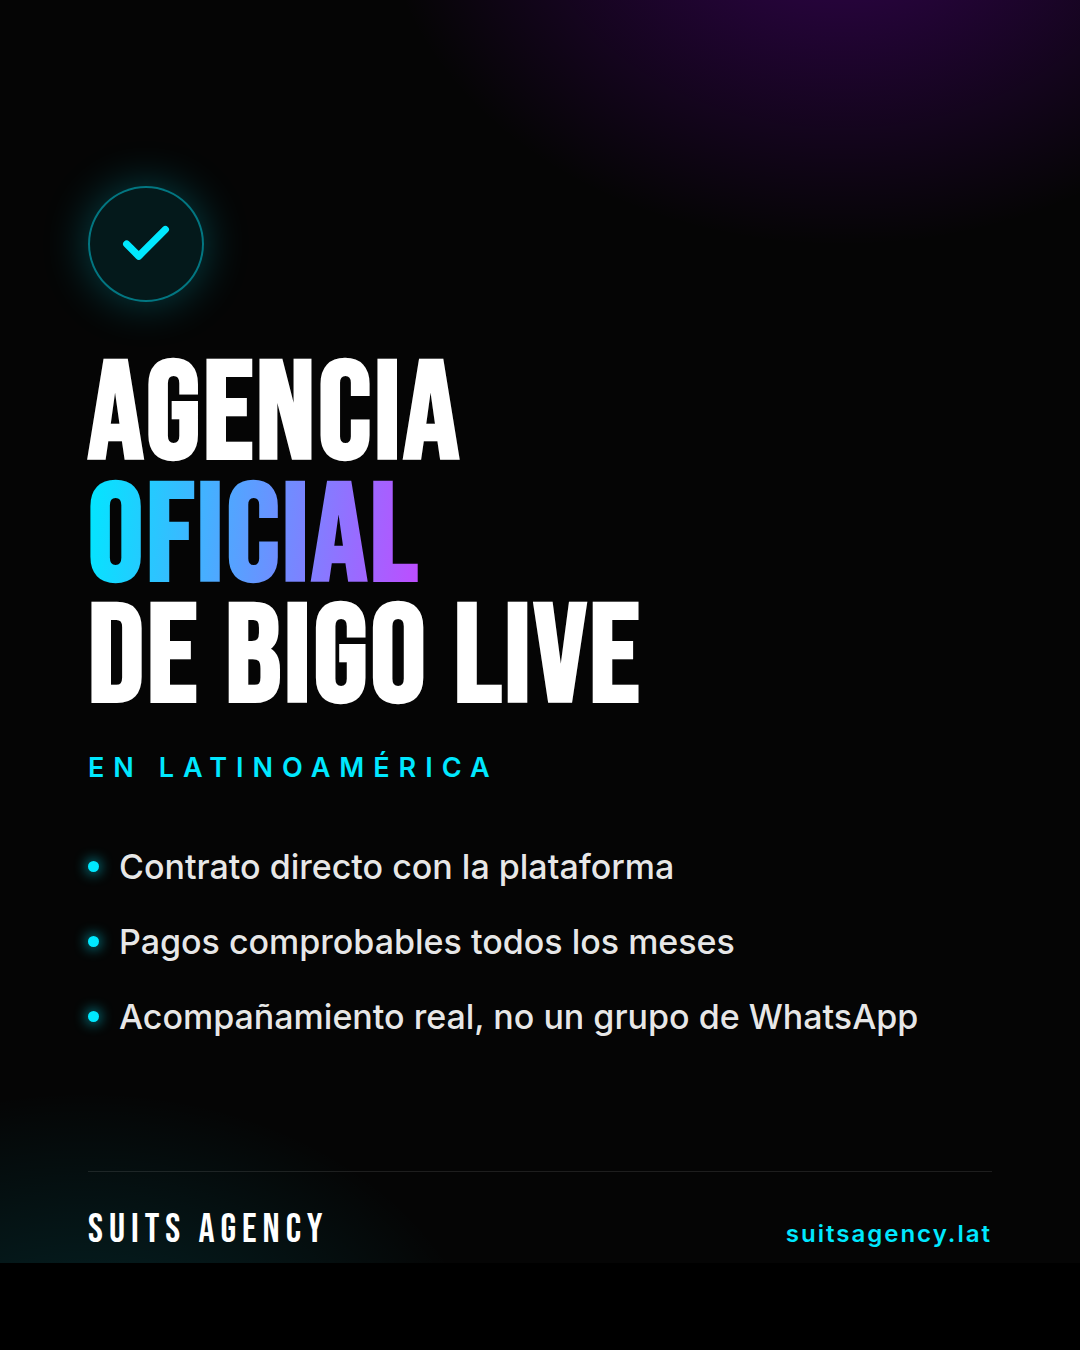
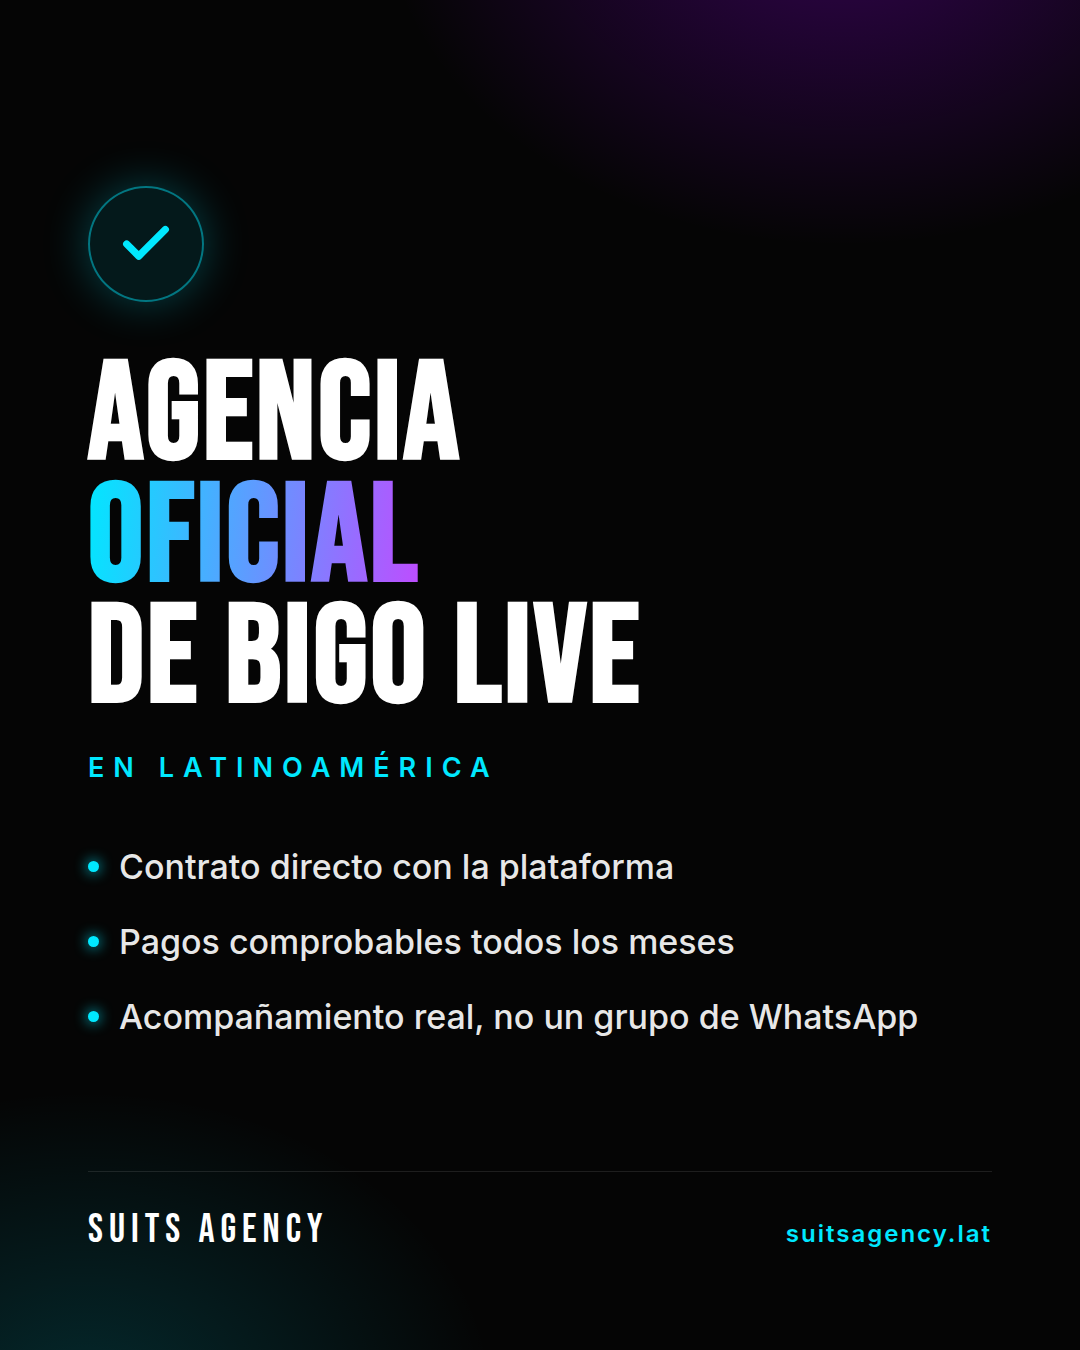
Agregar los fondos sueltos y arreglar los 87px negros al pie
Los fondo-*.html son el negro de marca con los dos resplandores y nada
encima, para llevarlos a Canva y maquetar el texto ahi. Van en 1080x1350
para el feed y 1080x1920 para historias; la medida sale del nombre del
archivo. Los resplandores pasaron de px a porcentaje para que el mismo
CSS sirva en los dos altos: en 1080x1350 dan exactamente lo mismo que
antes.

Armando el fondo aparecio un error que venia de antes y afectaba a las
tres placas ya exportadas. La ventana headless reserva 87px fijos para la
barra del navegador, asi que con --window-size=1080,1350 el viewport real
era de 1080x1263 y la imagen igual salia de 1350: los ultimos 87px eran
negro puro del fondo de la ventana, no la placa. En las placas con texto
casi no se notaba —el pie termina en 1254 y zafaba por 9px— pero al
resplandor cian de abajo a la izquierda lo cortaba con un filo recto, y
en el fondo sin texto quedaba a la vista.

exportar.sh pasa a ser exportar.py y captura el elemento .placa en vez de
la ventana, asi el recorte sale del tamaño real de la caja. Ademas
verifica cada PNG contra la medida esperada y falla si alguno no
coincide. Los cinco PNG estan regenerados.

Changed region(s): [[0.0, 0.9333, 0.275, 1.0]]

diff --git a/publicaciones/posts.css b/publicaciones/posts.css
@@ -47,16 +47,26 @@ html, body {
 }
 
 /* Resplandor de fondo. Dos manchas suaves, una violeta y una cian, para que
-   el negro no quede plano. Van detras de todo. */
+   el negro no quede plano. Van detras de todo.
+
+   Los tamaños van en porcentaje y no en px para que el mismo resplandor
+   sirva en el lienzo del feed (1350 de alto) y en el de historias (1920).
+   En 1080x1350 dan exactamente los mismos pixeles que antes. */
 .placa::before {
     content: '';
     position: absolute;
     inset: 0;
     background:
-        radial-gradient(680px 520px at 78% -8%, rgba(158, 0, 255, .30), transparent 68%),
-        radial-gradient(600px 460px at 8% 104%, rgba(0, 232, 255, .16), transparent 68%);
+        radial-gradient(63% 38.5% at 78% -8%, rgba(158, 0, 255, .30), transparent 68%),
+        radial-gradient(55.6% 34.1% at 8% 104%, rgba(0, 232, 255, .16), transparent 68%);
     pointer-events: none;
 }
+
+/* Lienzo vertical de historias y reels. */
+.placa.story { height: 1920px; }
+
+/* Fondo solo, sin contenido: para llevarlo a Canva y maquetar encima. */
+.placa.fondo { padding: 0; }
 
 /* Todo el contenido va encima del resplandor. */
 .placa > * { position: relative; z-index: 1; }

diff --git a/publicaciones/fondo-1080x1350.html b/publicaciones/fondo-1080x1350.html
@@ -1,0 +1,17 @@
+<!DOCTYPE html>
+<html lang="es">
+<head>
+<meta charset="UTF-8">
+<meta name="robots" content="noindex, nofollow">
+<title>Fondo — feed 1080x1350</title>
+<link rel="stylesheet" href="posts.css">
+</head>
+<body>
+
+<!-- Solo el fondo: el negro de marca con los dos resplandores, sin nada
+     encima. Es para llevarlo a Canva y maquetar el texto ahi.
+     No enlaza fuentes.css porque no hay una sola letra que tipografiar. -->
+<div class="placa fondo"></div>
+
+</body>
+</html>

diff --git a/publicaciones/fondo-1080x1920.html b/publicaciones/fondo-1080x1920.html
@@ -1,0 +1,17 @@
+<!DOCTYPE html>
+<html lang="es">
+<head>
+<meta charset="UTF-8">
+<meta name="robots" content="noindex, nofollow">
+<title>Fondo — historia y reel 1080x1920</title>
+<link rel="stylesheet" href="posts.css">
+</head>
+<body>
+
+<!-- Mismo fondo que el del feed pero en 9:16, para historias y reels.
+     Acordate de dejar libres unos 250px arriba y abajo: los tapa la
+     interfaz de Instagram. -->
+<div class="placa fondo story"></div>
+
+</body>
+</html>

diff --git a/publicaciones/exportar.py b/publicaciones/exportar.py
@@ -1,0 +1,102 @@
+#!/usr/bin/env python3
+"""Convierte cada placa .html en un .png listo para Instagram.
+
+    python3 exportar.py
+
+Necesita playwright:  pip install playwright && playwright install chromium
+
+POR QUE NO ES UN SCRIPT DE SHELL
+--------------------------------
+La primera version usaba Chrome headless con --screenshot y --window-size.
+Eso salia mal de una forma dificil de ver: la ventana headless reserva 87px
+constantes para la barra del navegador, asi que con --window-size=1080,1350
+el viewport real era de 1080x1263 y la imagen igual salia de 1350 de alto.
+Los ultimos 87px no eran la placa: eran negro puro del fondo de la ventana.
+
+En las placas con texto casi no se notaba —el pie termina en 1254, justo
+arriba del corte—, pero al resplandor cian de abajo a la izquierda lo
+cortaba con un filo recto. En el fondo sin texto se veia clarisimo.
+
+Capturar el elemento y no la ventana evita todo eso: el recorte sale del
+tamaño real de la caja, sin depender del viewport.
+"""
+import pathlib
+import re
+import sys
+
+try:
+    from playwright.sync_api import sync_playwright
+except ImportError:
+    sys.exit("Falta playwright.  pip install playwright && playwright install chromium")
+
+AQUI = pathlib.Path(__file__).parent.resolve()
+MEDIDA = re.compile(r"-(\d+)x(\d+)$")
+FEED = (1080, 1350)
+
+
+def medida_de(nombre):
+    """El tamaño sale del nombre del archivo; si no lo trae, es el del feed."""
+    m = MEDIDA.search(nombre)
+    return (int(m.group(1)), int(m.group(2))) if m else FEED
+
+
+def navegador_local():
+    """Chromium ya instalado, si lo hay.
+
+    El paquete de pip pide una revision exacta y falla si en la maquina hay
+    otra, aunque sirva perfectamente. Cuando encontramos un Chromium propio
+    se lo pasamos a mano y nos ahorramos la descarga.
+    """
+    for patron in ("chromium-*/chrome-linux/chrome",
+                   "chromium-*/chrome-linux64/chrome"):
+        for base in (pathlib.Path("/opt/pw-browsers"),
+                     pathlib.Path.home() / ".cache/ms-playwright"):
+            encontrados = sorted(base.glob(patron)) if base.is_dir() else []
+            if encontrados:
+                return str(encontrados[-1])
+    return None
+
+
+def main():
+    archivos = sorted(AQUI.glob("post-*.html")) + sorted(AQUI.glob("fondo-*.html"))
+    if not archivos:
+        sys.exit("No encontre ninguna placa (post-*.html o fondo-*.html)")
+
+    fallos = []
+    with sync_playwright() as p:
+        local = navegador_local()
+        navegador = p.chromium.launch(executable_path=local) if local else p.chromium.launch()
+        for f in archivos:
+            ancho, alto = medida_de(f.stem)
+            pagina = navegador.new_page(viewport={"width": ancho, "height": alto})
+            pagina.goto(f.as_uri())
+            # Sin esto la captura puede dispararse antes de que las fuentes
+            # esten listas y los titulares salen en la tipografia de reemplazo.
+            pagina.wait_for_load_state("networkidle")
+            pagina.evaluate("document.fonts.ready")
+
+            salida = f.with_suffix(".png")
+            pagina.locator(".placa").screenshot(path=str(salida))
+            pagina.close()
+
+            real = medir(salida)
+            ok = real == (ancho, alto)
+            print(f"  {salida.name}  {real[0]} x {real[1]}" + ("" if ok else f"  <-- esperaba {ancho} x {alto}"))
+            if not ok:
+                fallos.append(salida.name)
+        navegador.close()
+
+    if fallos:
+        sys.exit(f"\nSalieron con el tamaño equivocado: {', '.join(fallos)}")
+    print("Listo.")
+
+
+def medir(png):
+    """Ancho y alto de un PNG, leyendo el encabezado IHDR."""
+    import struct
+    with open(png, "rb") as fh:
+        return struct.unpack(">II", fh.read(24)[16:24])
+
+
+if __name__ == "__main__":
+    main()

diff --git a/README.md b/README.md
@@ -521,11 +521,19 @@ index.html                        Las tres juntas, para mirarlas de un vistazo
 post-1-oficial.html               Agencia oficial de Bigo Live
 post-2-pagos.html                 Los pagos son en dólares
 post-3-pasos.html                 Los tres pasos del registro
-posts.css                         Estilo compartido de las tres
+fondo-1080x1350.html              Solo el fondo, para maquetar encima en Canva
+fondo-1080x1920.html              Lo mismo en vertical de historia
+posts.css                         Estilo compartido de todas
 fuentes.css                       Bebas Neue, Inter y Roboto Mono incrustadas
-exportar.sh                       Genera los .png de 1080x1350
+exportar.py                       Genera los .png
 guia-contenido-instagram.xlsx     Ideas y especificaciones para armar el resto
 ```
+
+Los `fondo-*.html` son el negro de marca con los dos resplandores y **nada
+encima**. Sirven para llevarlos a Canva de fondo y maquetar ahí el texto.
+El tamaño sale del nombre del archivo: si termina en `-1080x1920`, se
+exporta con esa medida. Para un lienzo nuevo, se copia uno de los dos y se
+le cambia el nombre.
 
 `guia-contenido-instagram.xlsx` es para trabajar **fuera** de este repo: tiene
 las ideas de publicaciones con el formato sugerido (post único, carrusel o
@@ -536,8 +544,28 @@ el CSS.
 **Para cambiar un texto:** se abre el `.html` y se edita. Nada del
 contenido sale del CSS.
 
-**Para volver a generar las imágenes:** `./exportar.sh`. Necesita Chrome o
-Chromium; si está en otra ruta, `CHROME=/ruta/a/chrome ./exportar.sh`.
+**Para volver a generar las imágenes:** `python3 exportar.py`. Necesita
+`pip install playwright && playwright install chromium`. Si la máquina ya
+tiene un Chromium de Playwright, el script lo encuentra solo y no descarga
+nada.
+
+### La captura va del elemento, no de la ventana
+
+Antes esto era un script de shell con `chrome --headless --screenshot` y
+`--window-size`, y salía mal de una forma difícil de ver.
+
+**La ventana headless reserva 87 px fijos para la barra del navegador.** Con
+`--window-size=1080,1350` el viewport real era de 1080×1263, pero la imagen
+igual salía de 1350 de alto: los últimos 87 px eran negro puro del fondo de
+la ventana, no la placa.
+
+En las placas con texto casi no se notaba, porque el pie termina en 1254 y
+zafaba por 9 px. Pero al resplandor cian de abajo a la izquierda lo cortaba
+con un filo recto, y en los fondos sin texto se veía clarísimo.
+
+> Capturar el elemento `.placa` en vez de la ventana lo evita: el recorte
+> sale del tamaño real de la caja. `exportar.py` además verifica que cada
+> PNG haya salido con la medida esperada y falla si alguno no coincide.
 
 ### Por qué las tipografías van incrustadas
 
